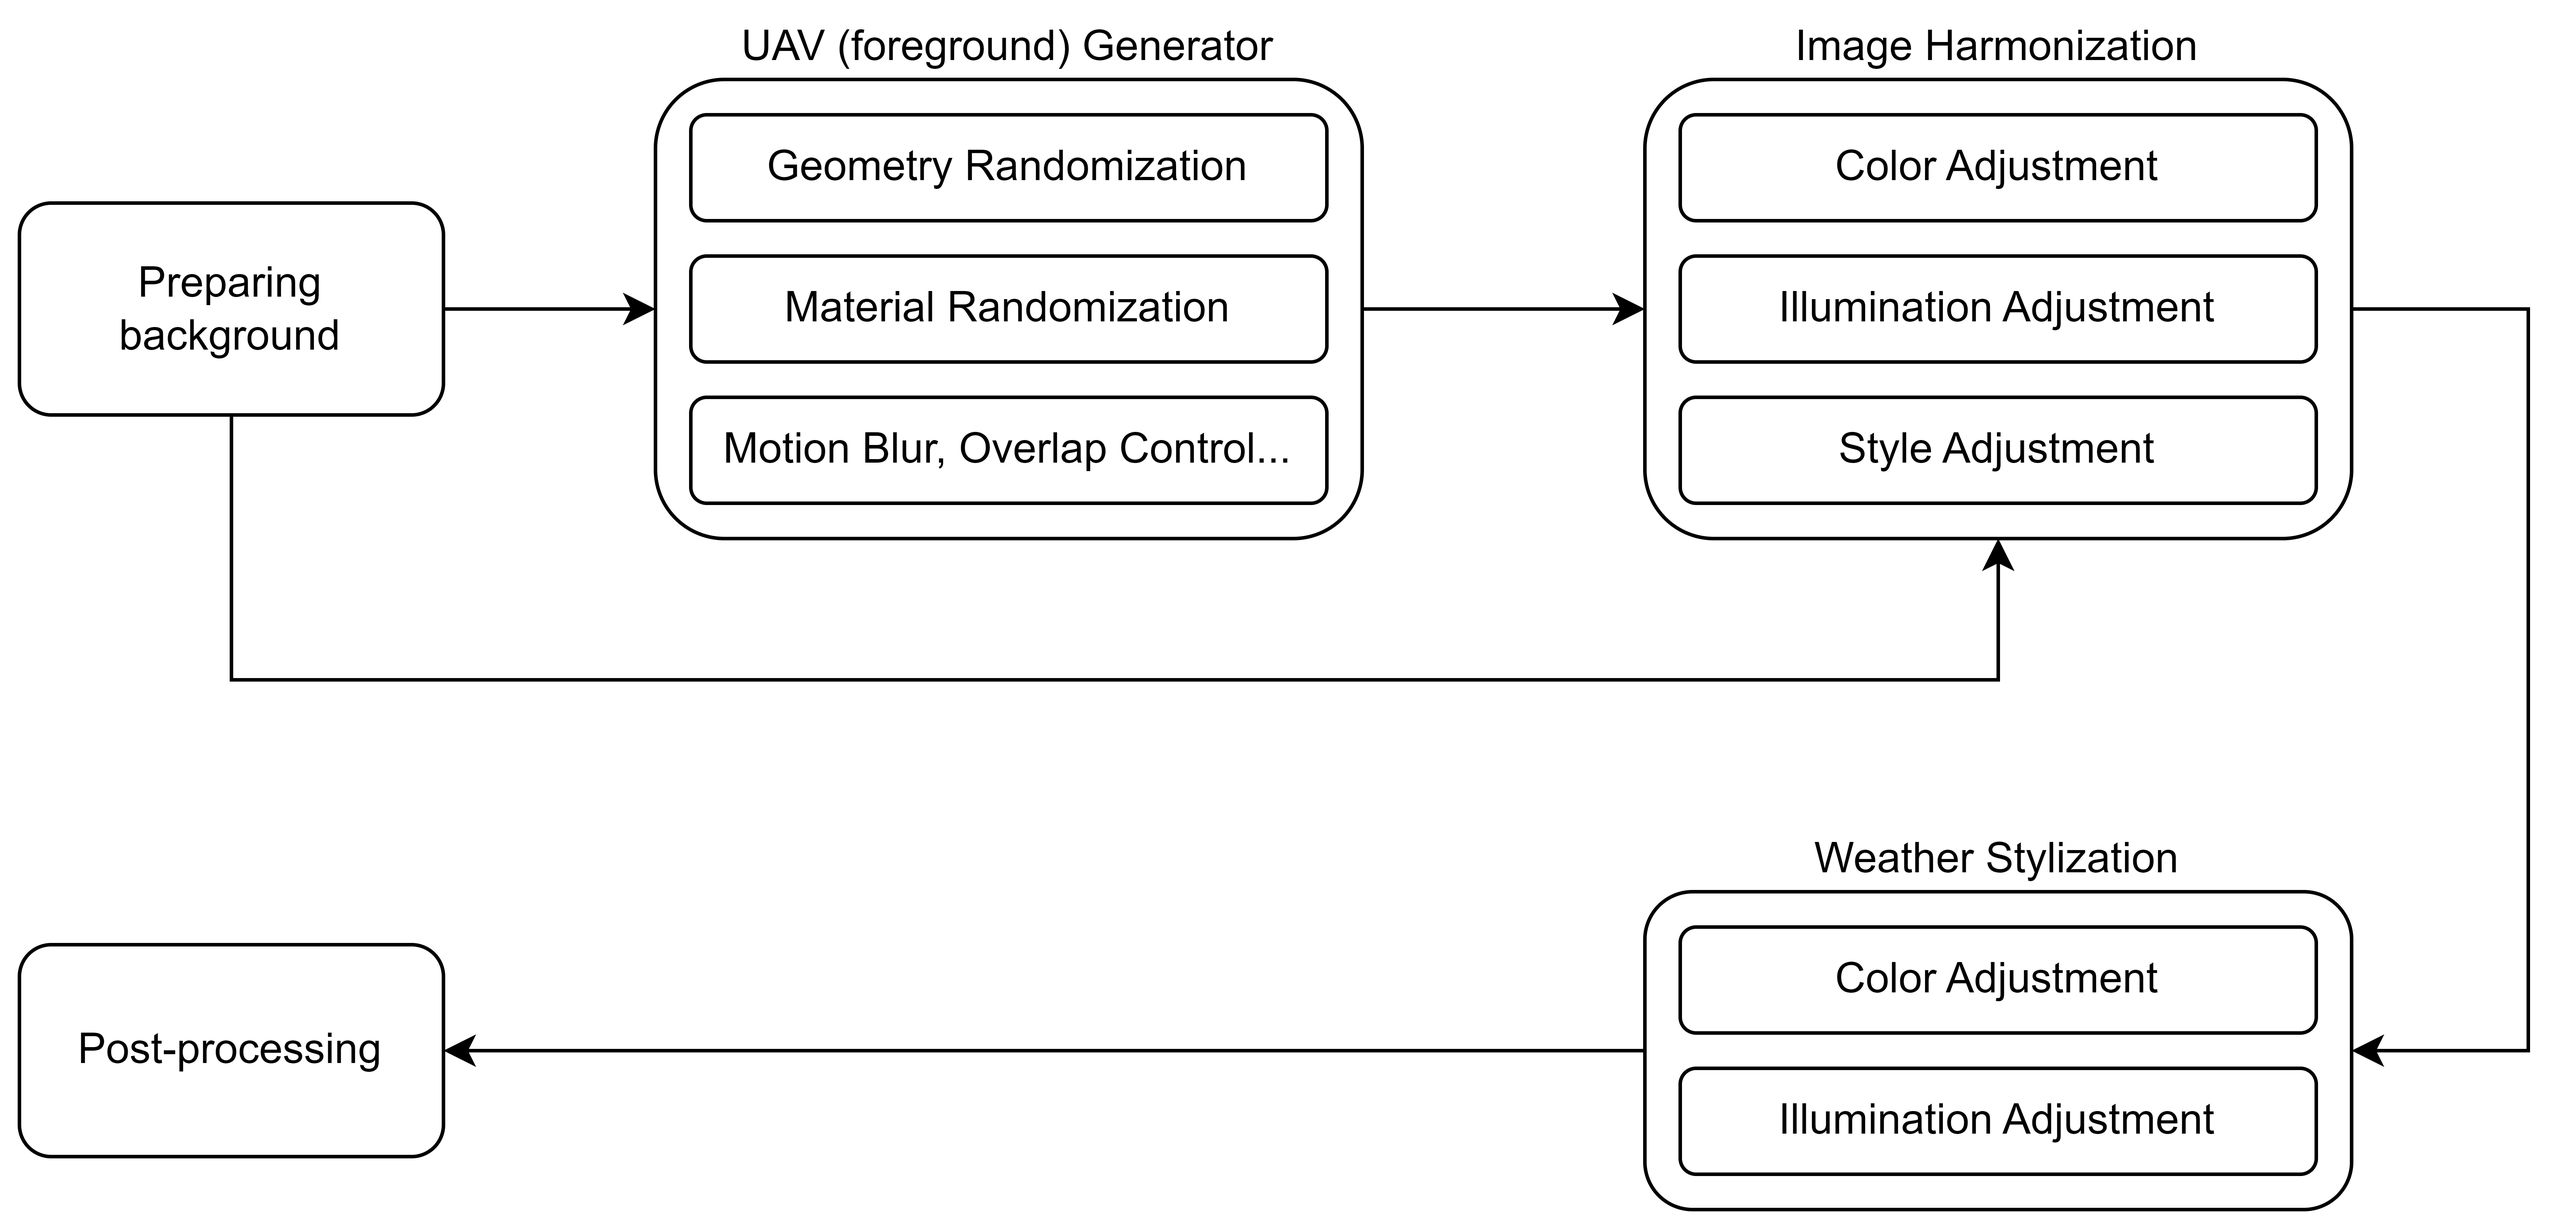
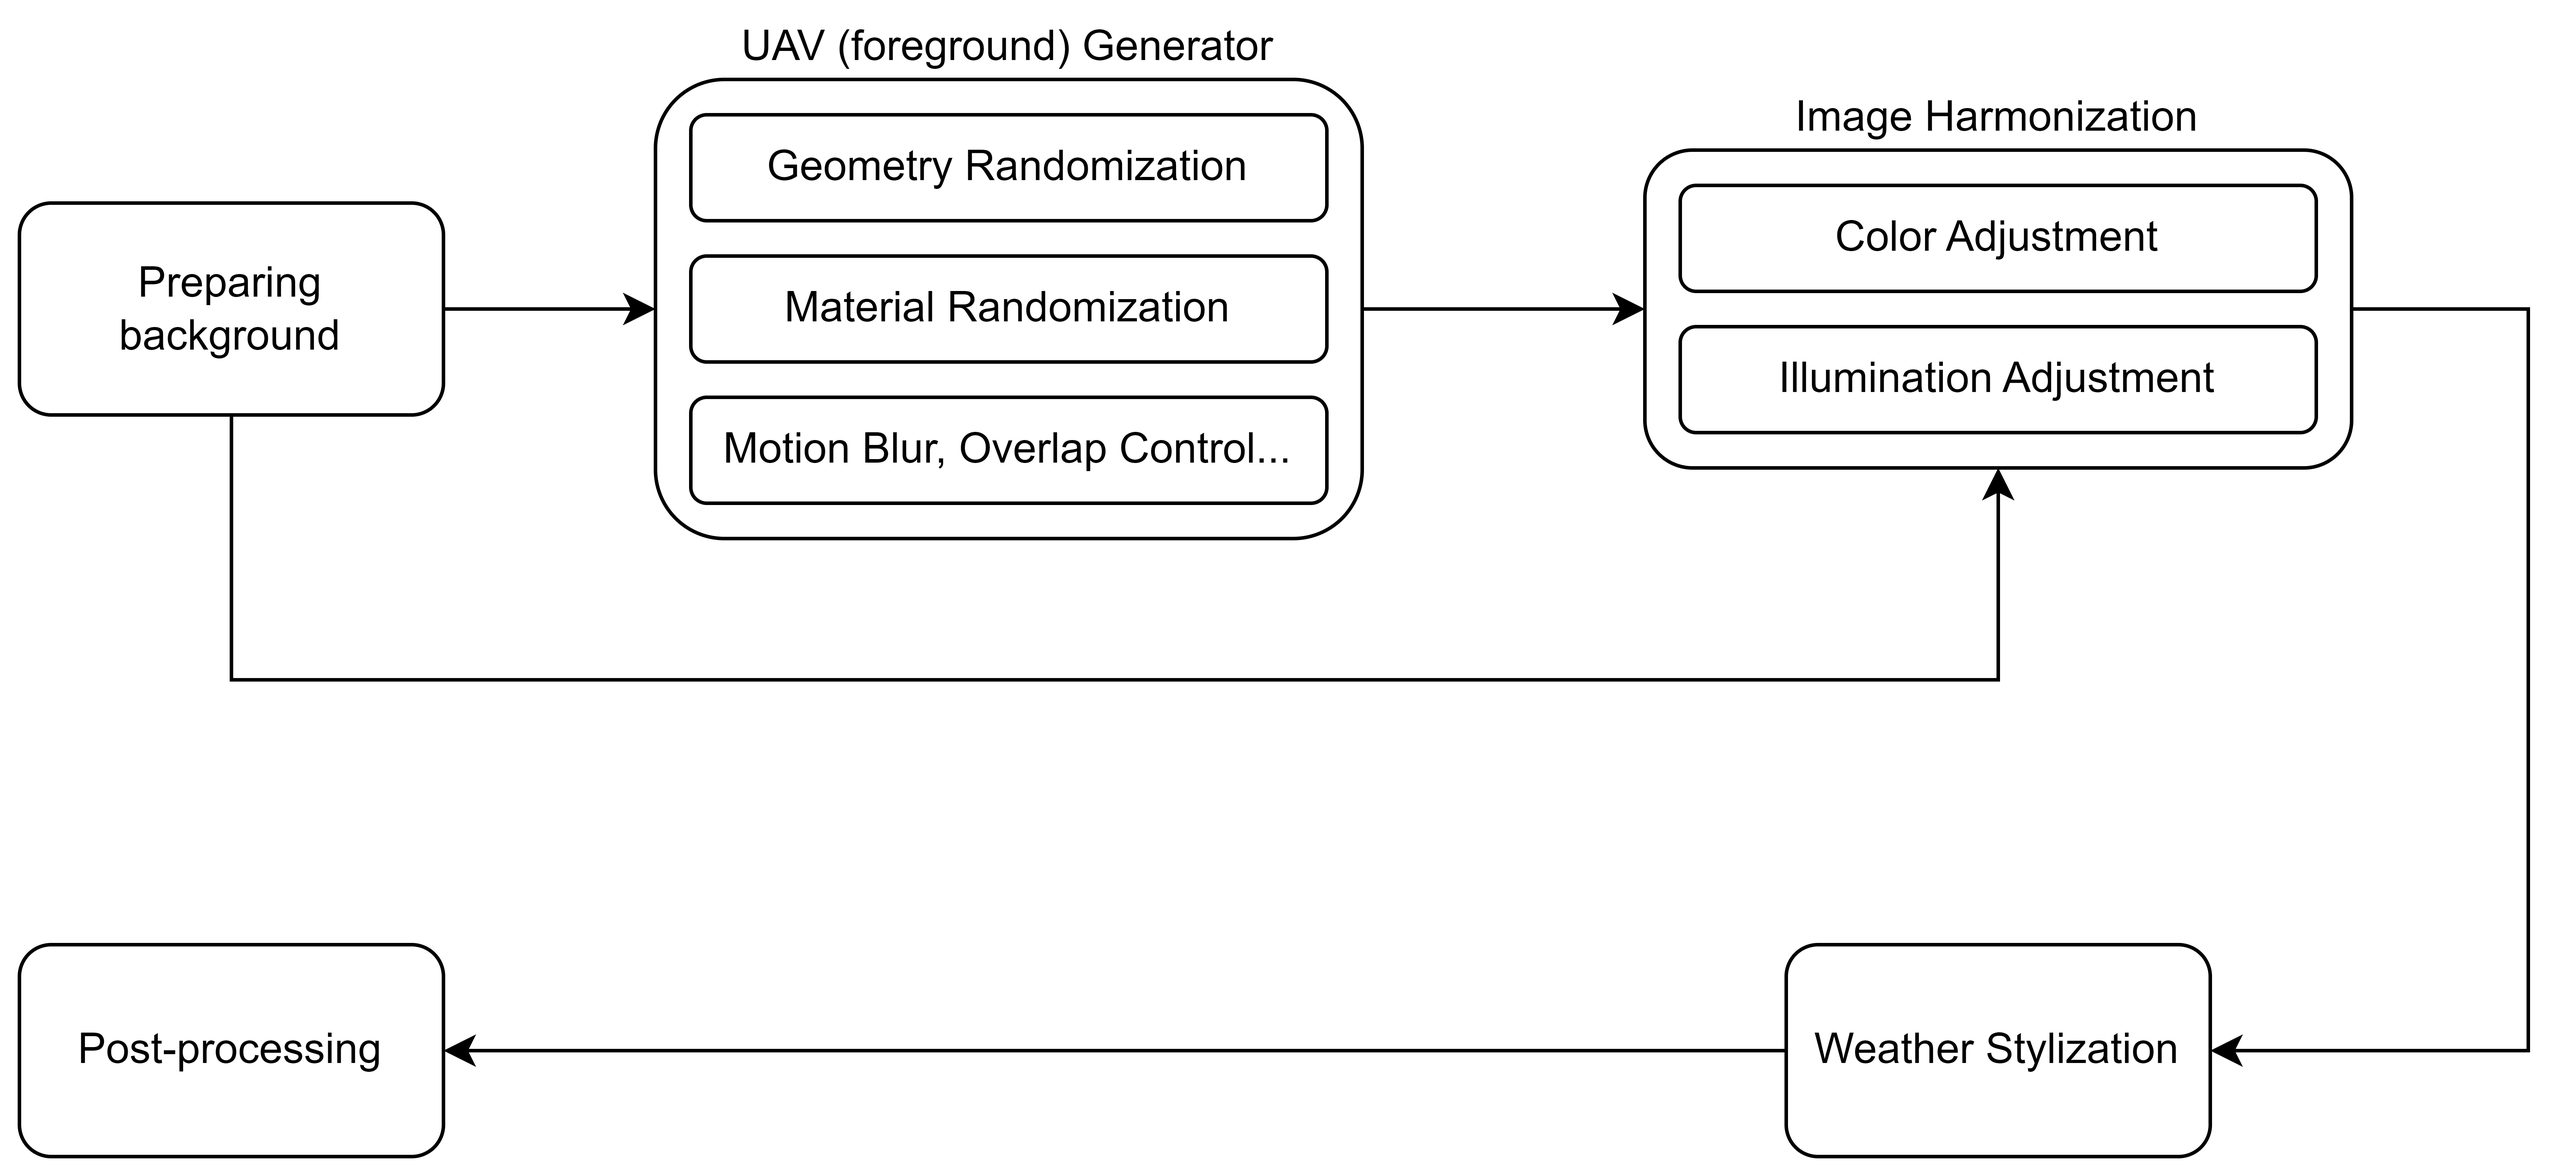
Update docs

diff --git a/docs/index.md b/docs/index.md
@@ -5,8 +5,20 @@
   <figcaption>Overview of generation pipeline</figcaption>
 </figure>
 
+## Goal
+Aims to propose a generation pipeline for UAV dataset to collect adverse weather images.
+
 ## Features
-1. 
+* Realistic dataset generation
+* Support various UAV properties randomization, e.g. geometry, etc.
+* Support motion blur, overlap control among UAV samples, etc.
+* Transfer weather without simulation
+* Modular design, easy to support additional processing
+* Use non-PBR/PBR textures (**CC0**, **RF**) and open/closed-source models
 
 ## Sections
-* 
+* [Getting started](getting-started): A quick guide to generate an UAV dataset.
+* [User guides](user-guides/customization.md): Tutorials about configuration or customization, etc.
+* [Presets](presets/weather-anti-uav.md): Several generated datasets.
+* [Design](design/dataset.md): Details of the system design of generation pipeline.
+* [Resources](resources.md): Utilized resources and useful references in the generation pipeline.

diff --git a/docs/getting-started/pre-processing.md b/docs/getting-started/pre-processing.md
@@ -26,5 +26,5 @@ By default, all rotary-wing UAVs are enabled and the textures are used in random
 
 For more details about blender scene:
 
-* The system design? see [Blender in Design](../design/blender.md).
-* How to customize it? see [Blender customization in User guides](../user-guides/blender.md).
+* The system design? see [UAV generation in Design](../design/uav-generation.md).
+* How to customize it? see [Blender customization in User guides](../user-guides/customization.md).

diff --git a/docs/getting-started/index.md b/docs/getting-started/index.md
@@ -1,3 +1,3 @@
 # Getting started
 
-In this guide, we will demonstrate how to generate a UAV dataset.
+In this guide, we will demonstrate how to generate an UAV dataset.
